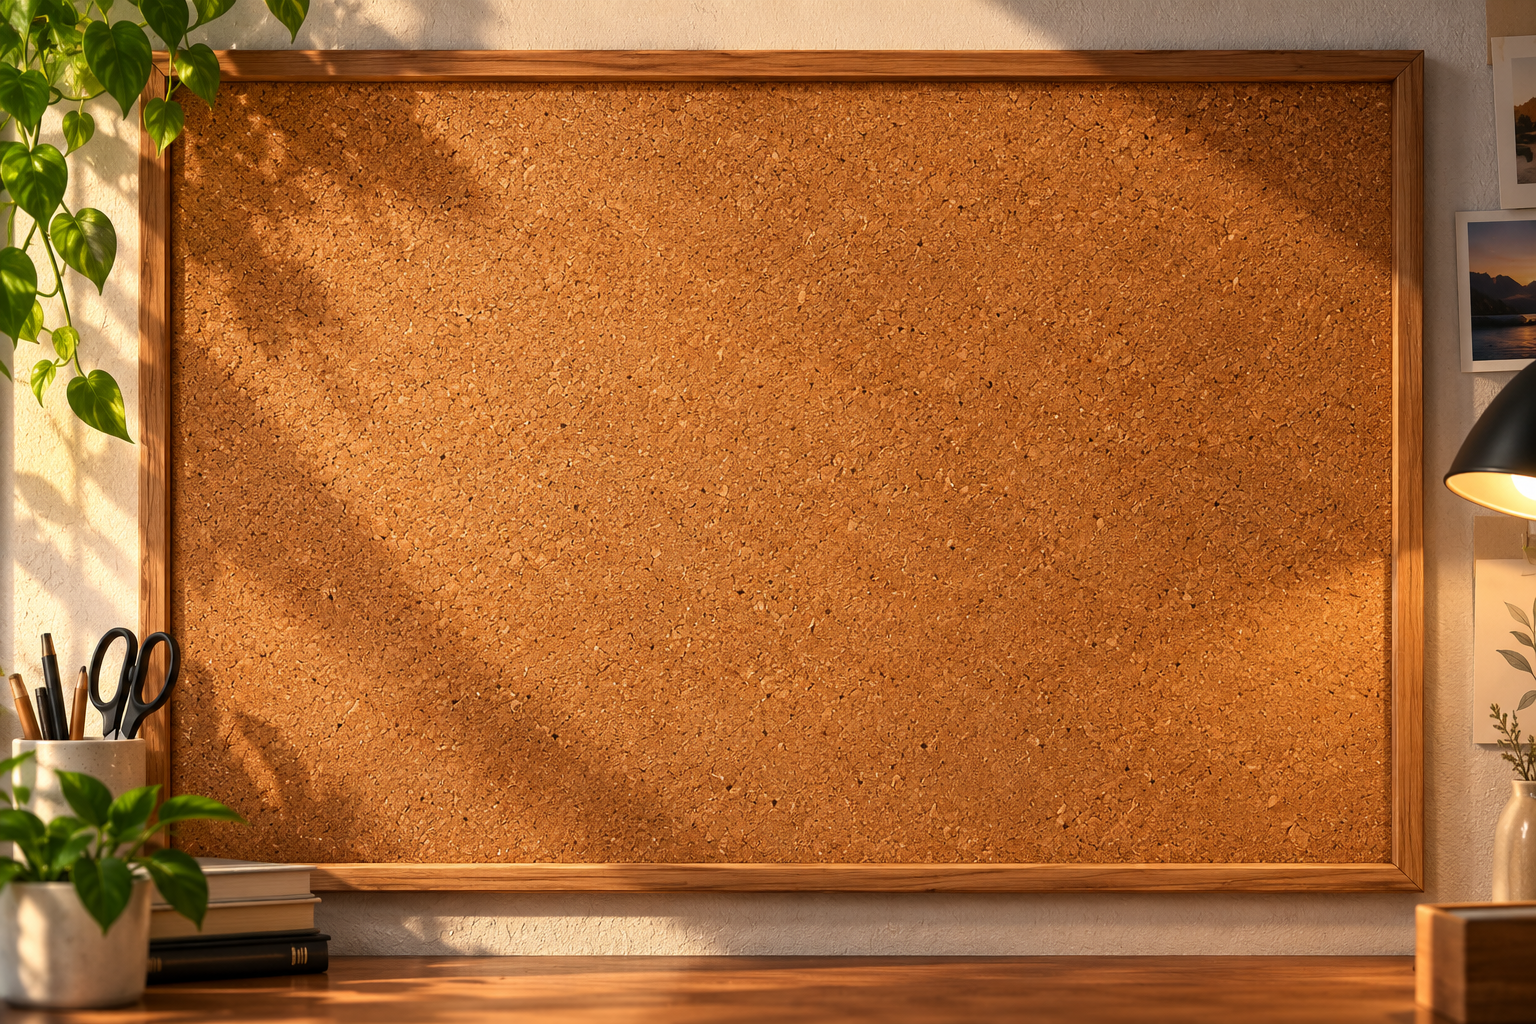
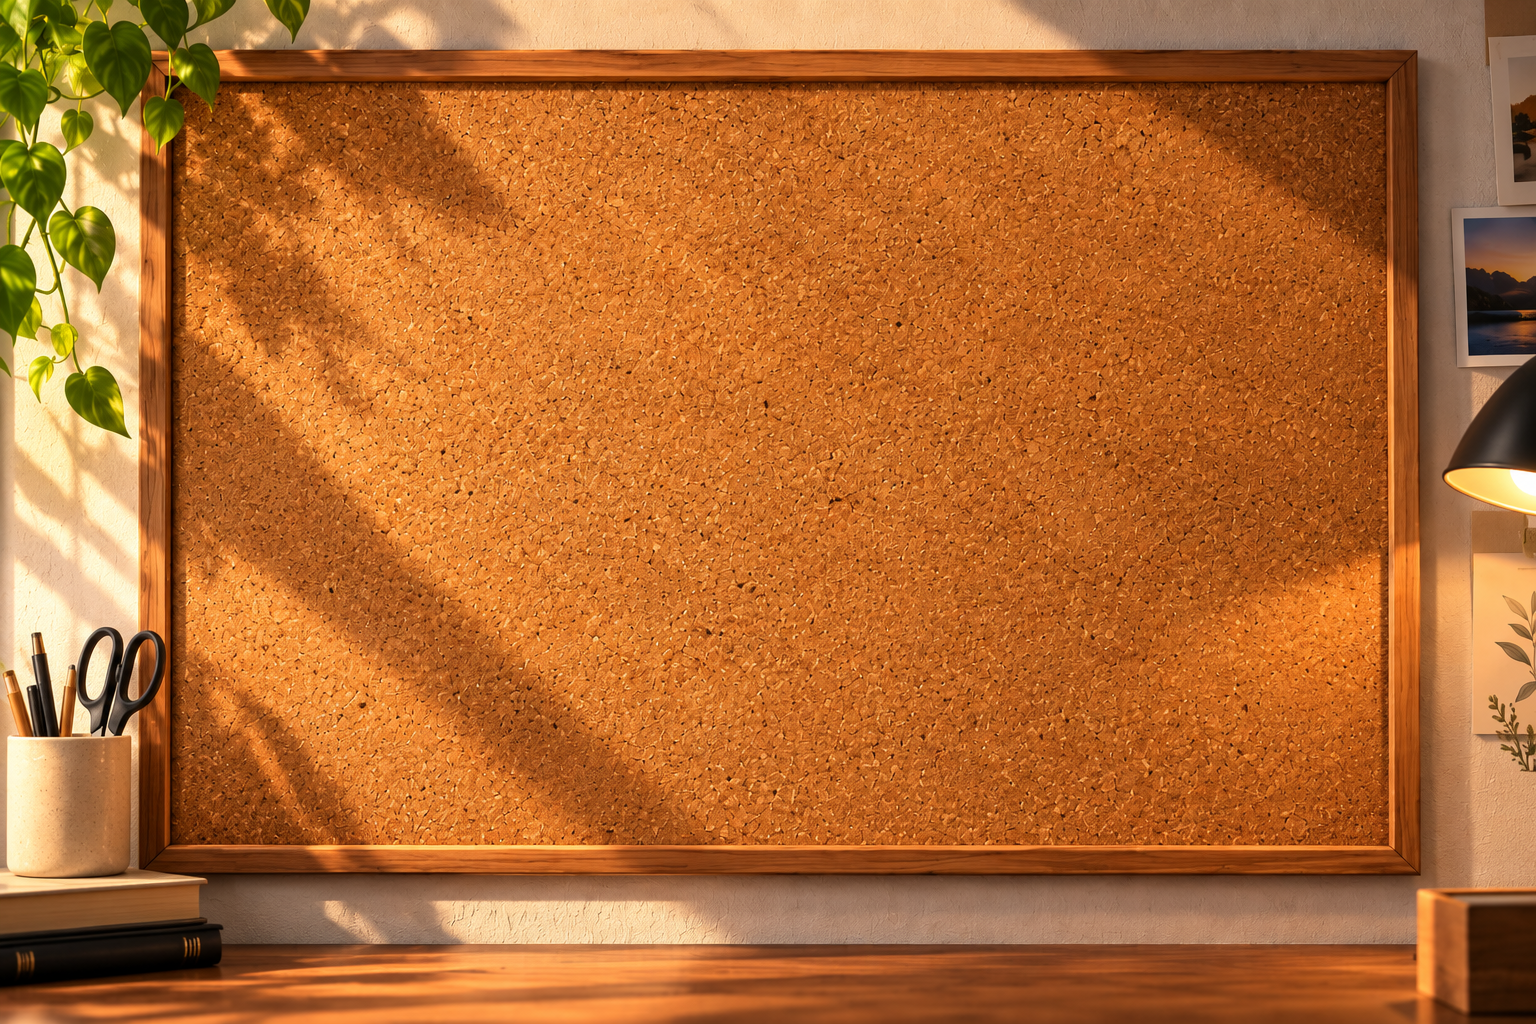
Quadro cortiça: nova imagem e área útil ajustada

diff --git a/src/lib/boards.ts b/src/lib/boards.ts
@@ -15,7 +15,7 @@ export type BoardInfo = {
 };
 
 export const BOARDS: readonly BoardInfo[] = [
-  { id: "cortica", name: "Cortiça", image: "/img/quadro-desktop.webp", cork: { left: 11.2, top: 8, width: 79.4, height: 76.2 }, size: 1 },
+  { id: "cortica", name: "Cortiça", image: "/img/quadro-desktop.webp?v=2", cork: { left: 11.8, top: 8.4, width: 78.2, height: 73.4 }, size: 1 },
   { id: "criativo", name: "Criativo", image: "/img/quadro-criativo.webp?v=2", cork: { left: 12.6, top: 9.2, width: 75.4, height: 69.5 }, size: 1 },
   { id: "geek", name: "Geek", image: "/img/quadro-geek.webp", cork: { left: 12.9, top: 8.2, width: 76, height: 71.1 }, size: 1 },
   { id: "leitura", name: "Leitura", image: "/img/quadro-leitura.webp", cork: { left: 15.5, top: 9.3, width: 68.4, height: 65.6 }, size: 0.86 },
